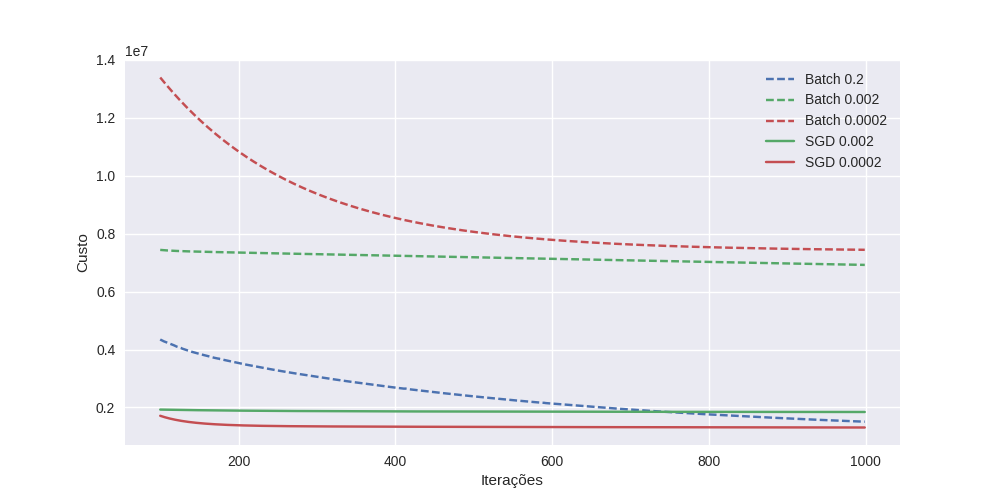
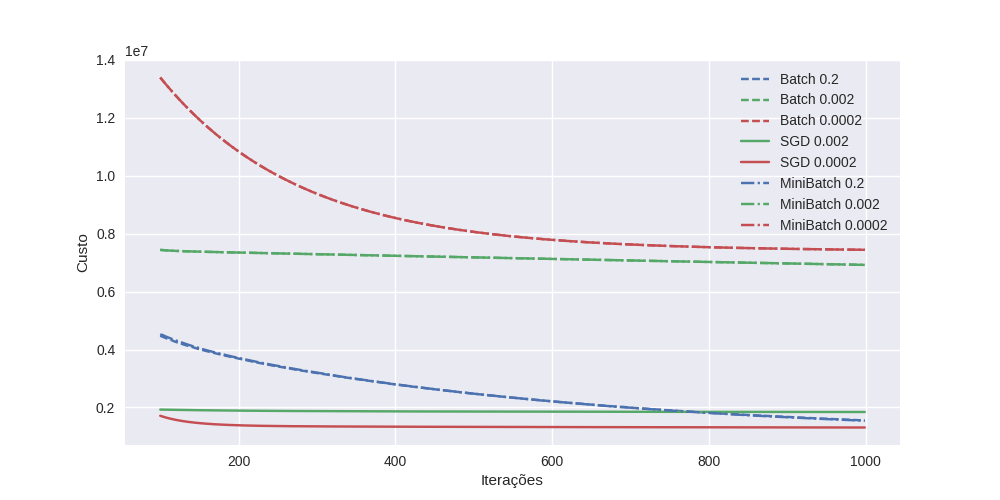
gradient descents

diff --git a/exp2_gradientdescents.py b/exp2_gradientdescents.py
@@ -19,7 +19,7 @@ def shape_csv(name):
 def main():
 
     # Adjusting training parameters
-    iteracoes = 10000
+    iteracoes = 1000
     alpha = [0.2, 0.002, 0.0002]
    
     #Plot settings
@@ -28,7 +28,7 @@ def main():
     ax.set_ylabel('Custo')
     ax.set_xlabel('Iterações')
     cores = ['C0', 'C1', 'C2']
-    gradients = ["-sgd=0", "-sgd=1"]
+    gradients = ["-sgd=0", "-sgd=1", "-mb=1"]
 
     train_features, valid_features, train_labels, valid_labels = get_data(1)
     for g in range(0,len(gradients)):
@@ -55,8 +55,10 @@ def main():
                 continue
             elif g==0:
                 ax.plot(range(100,iteracoes), costs[0, 100:], cores[a], label='Batch ' + str(alpha[a]), linestyle='--')
-            else:
+            elif g==1:
                 ax.plot(range(100,iteracoes), costs[0, 100:], cores[a], label='SGD ' + str(alpha[a]), linestyle='-')
+            elif g==2:
+                ax.plot(range(100,iteracoes), costs[0, 100:], cores[a], label='MiniBatch ' + str(alpha[a]), linestyle='-.')
                 
     ax.legend()
     plt.savefig('gradients_'+str(iteracoes)+'.png')
